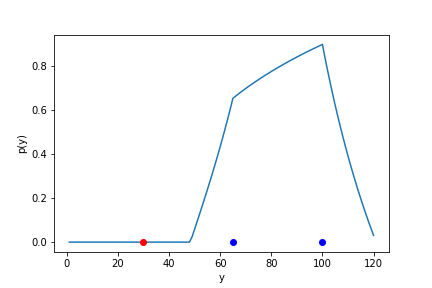
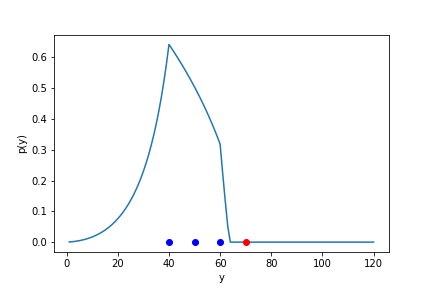
intermediate progress

diff --git a/report/report.tex b/report/report.tex
@@ -35,21 +35,41 @@ The baseline model (Figure \ref{fig:baseline}), which was introduced by Tenenbau
 \begin{figure}[t]
 	\includegraphics[width=4cm]{graphics/baseline.png}
 	\centering
-	\caption{Baseline model fitted on the positive examples [40, 50, 60] (red) does not incorporate the negative examples (70,80) }
+	\caption{Baseline model fitted on the positive examples [40, 50, 60] (red) does not incorporate the negative example [70] }
 	\label{fig:baseline}
 \end{figure}
 
-A naive approach to incorporate negative examples, is to fit a model the same way it was fitted for the positive examples and then  calculate the difference.
+A naive approach to incorporate negative examples, is to fit a model the same way it was fitted for the positive examples and then calculate the difference.
+This then obviously needs to be 
 
+\begin{figure}
+	\centering
+	\includegraphics{graphics/addition_model}
+	\caption{addition model fitted on the positive examples [40, 50, 60] (red) and negative exaample [70]}
+\end{figure}
 \noindent
-
+In the graph we can see,
 Evaluate how negative examples affect the predictions of the original model and use it as a baseline
 (2) Evaluate the predictions made by the original model for multi cluster sample data
-\section{multi cluster sample data}
-(3) Evaluate how the model could be altered so that negative examples can be incorporated to limit cluster intervals assuming a continuous consequential region
-\section{multi}
-(4) Evaluate how the model could be altered so that negative examples can be incorporated to limit cluster intervals assuming a discontinuous consequential region
-1
+	
+	
+\section{Limiting positive regions using negative examples}
+%(3) Evaluate how the model could be altered so that negative examples can be incorporated to limit cluster intervals assuming a continuous consequential region
+A typical use case for negative samples under the assumption of a single positive region is limiting that region.
+We would generally refer to the underlying thought process as one of elimination, which is why we shall call the corresponding model the elimination model.
+Since our baseline model takes all possible hypotheses into consideration, the process of integrating counterexamples is relatively straightforward: We remove all those hypotheses from consideration which are contradicted by our negative examples.
+To this end, we modify the likelihood calculation to
+
+\section{Separating positive regions by negative examples}
+%(4) Evaluate how the model could be altered so that negative examples can be incorporated to limit cluster intervals assuming a discontinuous consequential region
+
+
+\section{Multiple Discontinuous Regions Model}
+\begin{figure}
+	\centering
+	\includegraphics{graphics/mprm_model}
+	\caption{Multiple discontinuous regions model fitted on examples [1, 100] with 2 disjoint regions.}
+\end{figure}
 (5) Evaluate how the model can be expanded to handle discontinuous regions without
 negative examples
 We want to initially solve the first three issues. Due to the added co
